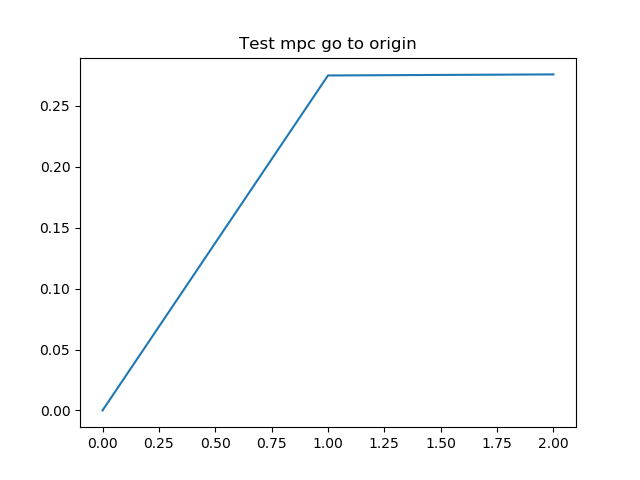
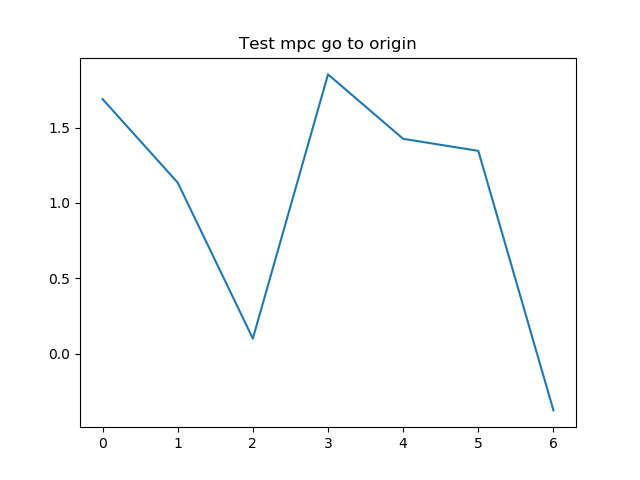
Debugged mpc, believe it works, but the swingup on learned model is bad

diff --git a/utils/model_predictive_controller.py b/utils/model_predictive_controller.py
@@ -24,8 +24,9 @@ class MPC:
         self.horizon = config["horizon"]
         self.iters = config["iters"]
         self.num_candidates = config["num_candidates"]
+        self.best_k = self.num_candidates // 2
 
-        self.action_dist = np.ones(self.action_size) * (1 / self.action_size)
+        self.action_dist = np.ones((self.action_size, self.horizon)) * (1 / self.action_size)
         self.best_action_seq = np.zeros(self.horizon)
         self.best_action_seq_cost = np.Infinity
     
@@ -50,11 +51,13 @@ class MPC:
             predictions = self.predict(state, actions)
             costs = np.array([self.cost(pred) for pred in predictions])
 
-            best_seq_indx = np.argmin(costs)
+            sorted_costs_indx = np.argsort(costs) # low to high
+            best_seq_indx = sorted_costs_indx[0]
+
+            update_seq = actions[sorted_costs_indx[:self.best_k]]
+            self.update_action_dist(update_seq)
 
             best_seq = actions[best_seq_indx]
-            self.update_action_dist(best_seq)
-
             if costs[best_seq_indx] < self.best_action_seq_cost:
                 self.best_action_seq = best_seq
                 self.best_action_seq_cost = costs[best_seq_indx]
@@ -88,25 +91,30 @@ class MPC:
         Return:
             action_sequence: (num_candidates, horizon) shaped array with multiple sequences of actions
         """
+        actions = np.zeros((self.num_candidates, self.horizon)) 
+        for i in range(self.horizon):
+            if use_action_dist:
+                actions[:, i] = npr.choice(self.action_size, p=self.action_dist[:, i], size=self.num_candidates)
+            else:
+                actions[:, i] = npr.choice(self.action_size, size=self.num_candidates)
         
-        if use_action_dist:
-            return npr.choice(len(self.action_dist), p=self.action_dist, size=(self.num_candidates, self.horizon))
-        else:
-            return npr.choice(self.action_size, size=(self.num_candidates, self.horizon))
+        return actions
 
     def update_action_dist(self, action_seq):
         """ Updates the running distribution of actions to sample"""
-        unique, counts_elements = np.unique(action_seq, return_counts=True)
 
-        new_action_dist = counts_elements
-        if len(unique) < self.action_size:
-            new_action_dist = np.zeros(self.action_size)
-            for i, u in enumerate(unique):
-                new_action_dist[u] += counts_elements[i]
-        self.action_dist = new_action_dist / counts_elements.sum()
+        for h in range(self.horizon):
+            unique, counts_elements = np.unique(action_seq[:, h], return_counts=True)
+
+            new_action_dist = counts_elements
+            if len(unique) < self.action_size:
+                new_action_dist = np.zeros(self.action_size)
+                for i, u in enumerate(unique):
+                    new_action_dist[int(u)] += counts_elements[i]
+            self.action_dist[:, h] = new_action_dist / counts_elements.sum()
 
 def run_mpc(transition_model, cost_func, config, env, seed_state=None, video=False):
-    max_iters = 10
+    max_iters = config["max_iters"]
     controller = MPC(transition_model, cost_func, config)
 
     states, costs = [], []
@@ -114,6 +122,9 @@ def run_mpc(transition_model, cost_func, config, env, seed_state=None, video=Fal
     env.reset()
     if seed_state:
         env.set_state(seed_state)
+    else:
+        env.set_state(env.sample_state())
+
     state = env._get_state()
 
     states.append(state)
@@ -136,7 +147,7 @@ def run_mpc(transition_model, cost_func, config, env, seed_state=None, video=Fal
 
         state = ns
 
-        if abs(costs[-1] - costs[-2]) < 0.01 or iters > max_iters:
+        if costs[-1] < 0.01 or iters > max_iters:
             break
         
         iters += 1
@@ -145,6 +156,7 @@ def run_mpc(transition_model, cost_func, config, env, seed_state=None, video=Fal
 
         if video:
             imgs.append(env.render_state(ns))
+    
     
     if video:
         print("Generating test video...")

diff --git a/examples/mpc_test.py b/examples/mpc_test.py
@@ -10,7 +10,7 @@ env = AcrobotEnv()
 
 def cost_up(states):
     """ Cost function to get acrobot upright"""
-    return np.sum(((-np.cos(states[0, :]) - np.cos(states[1, :] + states[0, :])) - 1) ** 2)
+    return np.sum(abs(-np.cos(states[0]) - np.cos(states[1]) + states[0]) - 1)
 
 def cost_down(states):
     """ Cost function to get acrobot straight down"""
@@ -33,12 +33,13 @@ def predict_horizon(state, action_sequence):
 config = {
     "action_size": env.action_space.n,
     "state_size": 4,
-    "horizon": 1,
-    "iters": 10,
+    "horizon": 500,
+    "iters": 5,
+    "max_iters": 500,
     "num_candidates": 10
 }
 
-states, costs = run_mpc(predict_horizon, cost_down, config, env, seed_state=[0, 0, 0, 0])
+states, costs = run_mpc(predict_horizon, cost_up, config, env, video=True, seed_state=[0, 0, 0, 0])
 
 plt.plot(costs)
 plt.title("Test mpc go to origin")

diff --git a/run_node_agent.py b/run_node_agent.py
@@ -53,9 +53,10 @@ mpc_config = {
     "horizon": 10, 
     "iters": 2,
     "num_candidates": 4,
+    "max_iters": 100,
 }
 
-states, costs = run_mpc(model.predict_horizon, lambda s: np.linalg.norm(s), mpc_config, env)
+states, costs = run_mpc(model.predict_horizon, lambda s: np.linalg.norm(s[0]) + np.linalg.norm(s[1]), mpc_config, env)
 
 plt.figure()
 plt.title(f"Cost, mpc horizon: {mpc_config['horizon']}")

diff --git a/utils/acrobot_env.py b/utils/acrobot_env.py
@@ -156,7 +156,7 @@ class AcrobotEnv(core.Env):
         ns[1] = wrap(ns[1], -pi, pi)
         ns[2] = bound(ns[2], -self.MAX_VEL_1, self.MAX_VEL_1)
         ns[3] = bound(ns[3], -self.MAX_VEL_2, self.MAX_VEL_2)
-        self.state = ns
+        state = ns
         return ns
 
     def _get_ob(self):
